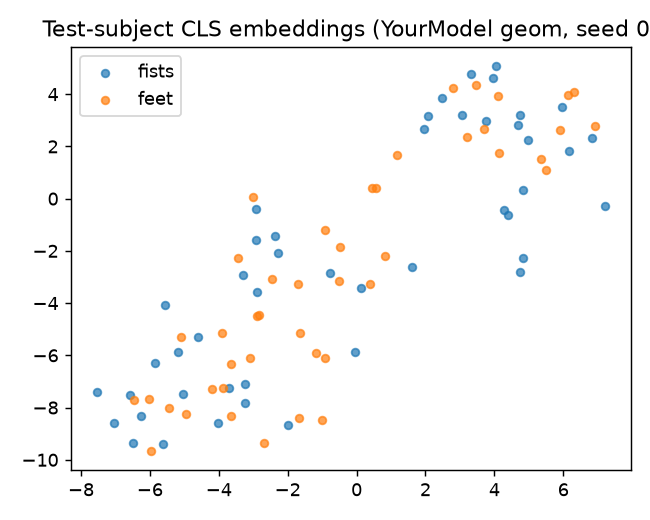
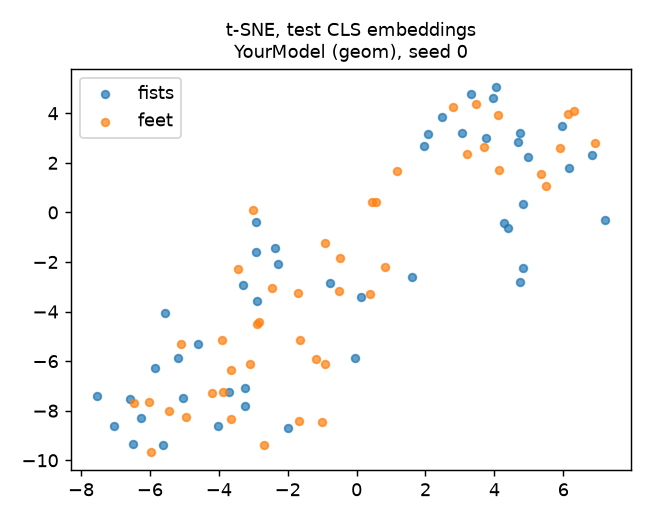
p2: figure redraw - fixed layout, reproducibility confirmed
--figure-only retrained YourModel (geom) seed 0: final 0.478, peak 0.567,
identical to results.jsonl (0.4778 / 0.5667).

diff --git a/part2_transformer/main.py b/part2_transformer/main.py
@@ -217,8 +217,8 @@ def save_figure(rows, attn, pos, names, thr, path):
     import mne
 
     ink, muted, accent = "#1f2328", "#8b949e", "#c2410c"
-    fig, ax = plt.subplots(1, 3, figsize=(14, 4.4),
-                           gridspec_kw=dict(width_ratios=[1.5, 1, 1]))
+    fig, ax = plt.subplots(1, 3, figsize=(16, 4.6),
+                           gridspec_kw=dict(width_ratios=[2, 1, 1]))
     models = list(dict.fromkeys(r["model"] for r in rows))
     for i, m in enumerate(models):
         f = np.array([r["final_acc"] for r in rows if r["model"] == m])
@@ -233,7 +233,8 @@ def save_figure(rows, attn, pos, names, thr, path):
                color=muted, fontsize=8)
     ax[0].set_xlim(-0.5, len(models) - 0.5)
     ax[0].set_xticks(range(len(models)))
-    ax[0].set_xticklabels([m.replace(" (", "\n(") for m in models], fontsize=7.5)
+    ax[0].set_xticklabels([m.replace(" (", "\n(").replace("Transformer", "\nTransformer")
+                           for m in models], fontsize=7.5)
     ax[0].set_ylabel("final-epoch test accuracy (subj 9-10)")
     ax[0].set_ylim(0.3, 0.8)
     ax[0].grid(axis="y", color="#e5e7eb", lw=0.6)
